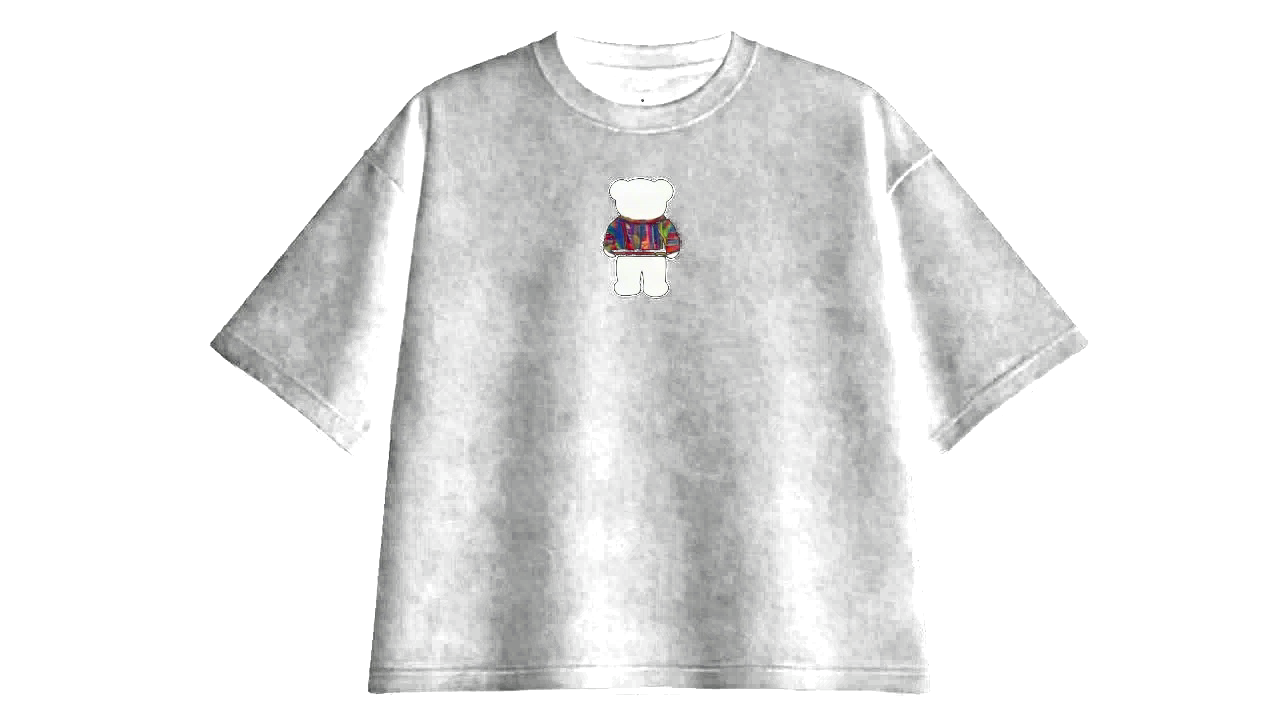
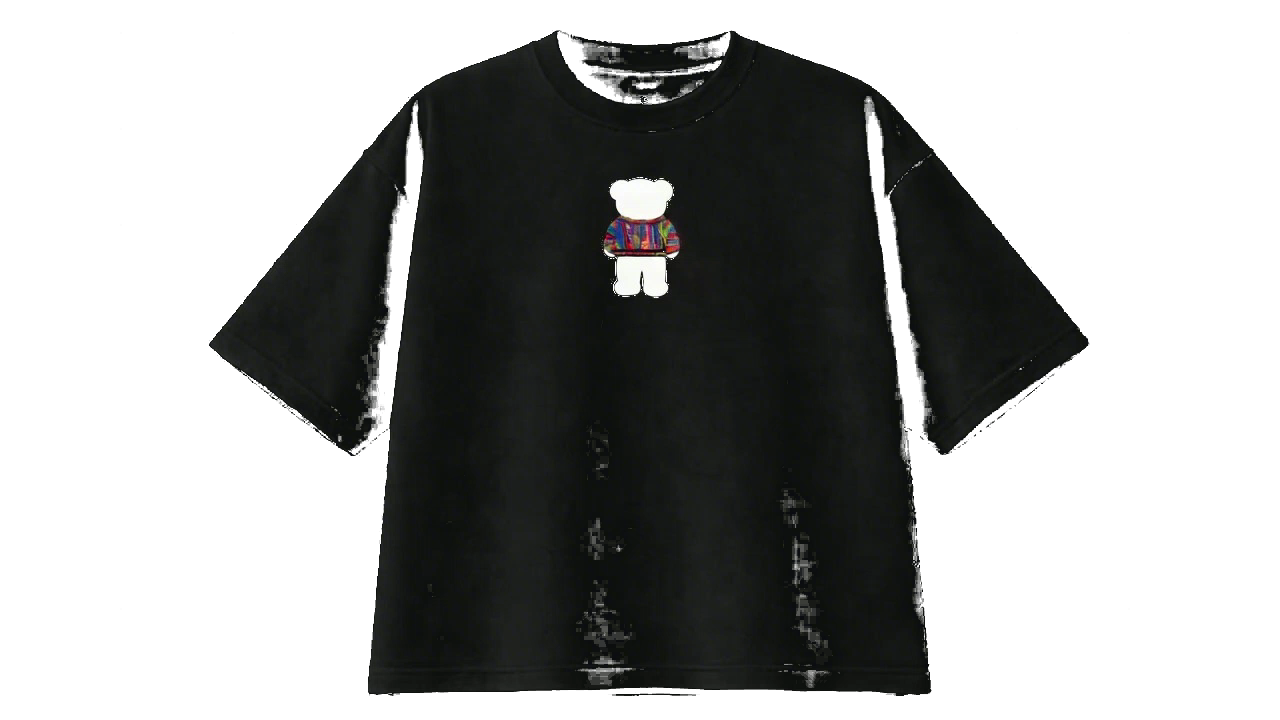
Fix garment colors — keep original black fabric
Tightened chroma-key threshold (0.01-0.025) so only pure black
background is removed. Dark fabric stays fully opaque and black
as in the original videos.

diff --git a/src/components/VideoGarment.jsx b/src/components/VideoGarment.jsx
@@ -16,7 +16,7 @@ const fragShader = `
   void main() {
     vec4 color = texture2D(videoTexture, vUv);
     float maxC = max(color.r, max(color.g, color.b));
-    float alpha = smoothstep(0.04, 0.10, maxC);
+    float alpha = smoothstep(0.01, 0.025, maxC);
     gl_FragColor = vec4(color.rgb, alpha);
   }
 `
